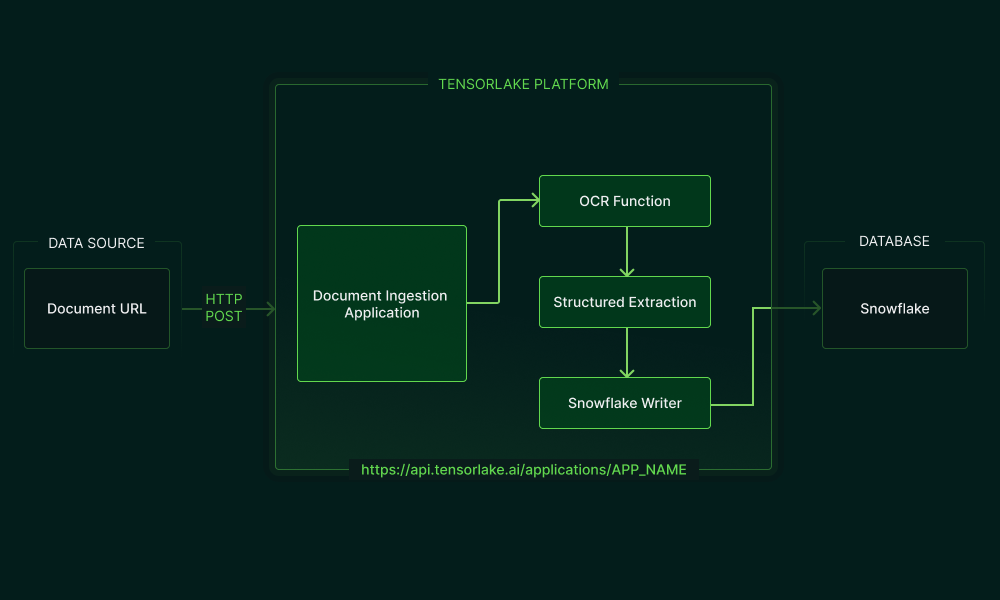
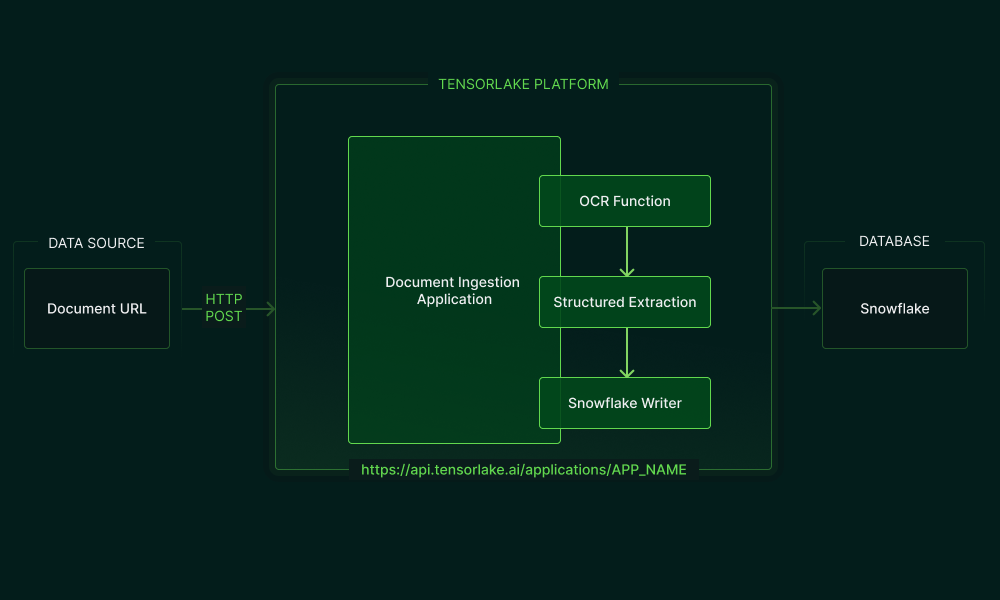
fixing diagrams

Changed region(s): [[0.279, 0.21, 0.558, 0.6], [0.744, 0.51, 0.775, 0.54], [0.713, 0.66, 0.744, 0.69]]

diff --git a/README.md b/README.md
@@ -36,7 +36,7 @@ We present some blueprints for production ready patterns to integrate with Snowf
 
 ### Blueprint: Document Ingestion Pipeline
 
-<img width="1000" height="600" alt="Snowflake_DocIngestion_Diagram" src="https://github.com/user-attachments/assets/854a524b-a1fb-4ca8-8e37-eef785c73e6b"/>
+![A diagram showing the pipeline for this Application](./sec-filings/Snowflake_SECFilings_Diagram.png)
 
 The Tensoralake Application receives Document URLs over HTTP, uses an OCR API to parse the document, calls an LLM for structured extraction, and then uses Snowflake's JDBC driver to write structured data into your Snowflake Database. Once it's inside Snowflake you can do all sorts of analytics on the data. 
 
@@ -59,6 +59,8 @@ The application is written in pure Python with Tensorlake's automatic function o
 Try out the [code here](./query-wikipedia).
 
 ### Blueprint: Document Indexing with Cortex
+
+![A diagram of the pipeline for this Application](./document-qa/Snowflake_DocQA_Diagram.png)
 
 The Tensorlake application orchestrates a streamlined document Q&A system powered entirely by Snowflake Cortex for document processing. When you send a document URL and question over HTTP, the application fetches the document and leverages Snowflake Cortex's native capabilities: PARSE_DOCUMENT extracts text and structure from PDFs and other formats, while SPLIT_TEXT_RECURSIVE_CHARACTER creates intelligent chunks that preserve semantic meaning.
 
